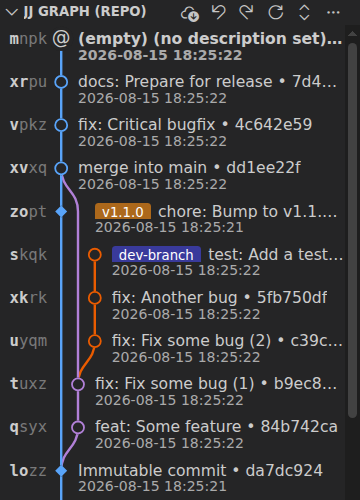
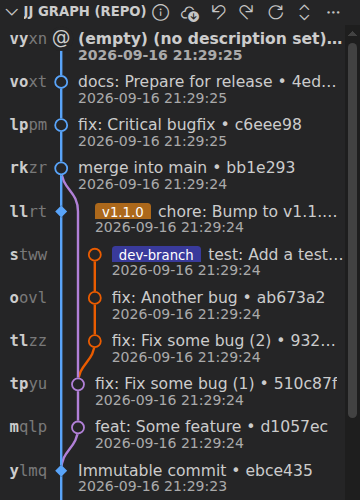
chore: Update screenshots

diff --git a/tests-integration/screenshot/screenshot.test.ts b/tests-integration/screenshot/screenshot.test.ts
@@ -148,7 +148,7 @@ test("take screenshot of jj graph for readme", async ({ userDataDir, graphFrame,
     x: clip.x,
     y: clip.y,
     width: 320,
-    height: 440,
+    height: 480,
   });
 
   // Make the jj graph horizontally larger
@@ -218,7 +218,7 @@ test("take screenshot of the details view", async ({ userDataDir, scmView, graph
     throw new Error("Failed to resize editor area");
   }
   const viewportWidth = await workbox.evaluate(() => window.innerWidth);
-  const dragRight = viewportWidth - (sashBox.x + sashBox.width) - 680;
+  const dragRight = viewportWidth - (sashBox.x + sashBox.width) - 550;
   const sashCenterX = sashBox.x + sashBox.width / 2;
   const sashCenterY = sashBox.y + sashBox.height / 2;
   await workbox.mouse.move(sashCenterX, sashCenterY);
